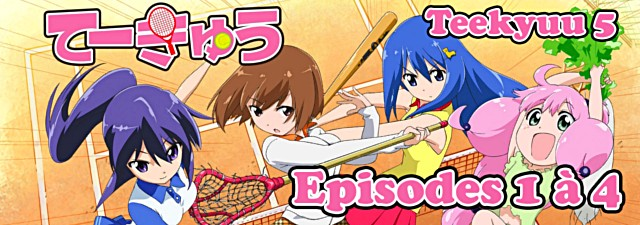
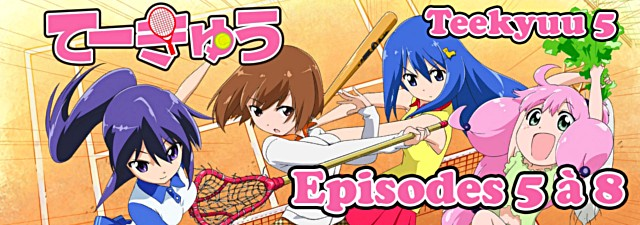
new release

Changed region(s): [[0.5, 0.7156, 1.0, 0.9644], [0.4375, 0.7156, 0.5, 0.9333], [0.5, 0.9333, 0.5312, 0.9644]]

diff --git a/2016-01-14.html b/2016-01-14.html
@@ -1,7 +1,7 @@
-<!DOCTYPE html>
+<!DOCTYPE html>
 <html lang="fr-FR">
 	<head>
-		<title>Teekyuu Saison 5 | Nobluesky Fansub</title>
+		<title>Teekyuu Saison 5 Ep 5 à 8 vostfr | Nobluesky Fansub</title>
 		<meta charset="utf-8" />
 		<link rel="Shortcut Icon" type="image/x-icon" href="favicon.ico" />
 		<link href="fonts/fonts.css" rel="stylesheet" type="text/css" />
@@ -36,35 +36,16 @@
 	<div id="article">
 		<div id="content">
 			<div class="post">
-				<h1 class="title">Teekyuu Saison 5</h1>
-				<div style="clear: both;">&nbsp;</div>
+				<h1 class="title">Teekyuu Saison 5 Ep 5 à 8 vostfr</h1>
+				<p class="meta"><span class="date">14 Janvier 2016</span><span class="posted">Posté par <a href="about.html#nobluesky">Nobluesky</a></span></p>
 				<div style="clear: both;">&nbsp;</div>
 				<div class="entry">
-					<img class="post-images" src="images/2016/teekyuu5.jpg" alt="" />
-					<p>12 épisodes de 2 min, Juillet 2015</p>
-					<p>Nous suivons le quotidien de quatre lycéennes membres du club de tennis. Un quotidien... pour le moins peu ordinaire!</p>
-					<p>Avec cette série humoristique déjantée, mettez votre cerveau au placard! Mais essayez tout de même de trouver les nombreuses références.</p>
+					<img class="post-images" src="images/2016/news4.jpg" alt="" />
+					<p>Bonjour,</p>
+					<p>Voici la suite des aventures de nos lycéennes. Accrochez-vous bien, le délire continue!</p>
+					<p>Je vous préviens aussi de possibles retards car je suis malade, et je risque de faire du travail peu soigné dans mon état, quand bien même j'arriverais à faire plus qu'écrire cette news. Je préfère donc attendre un moment plus favorable. (On nous aurait menti?! Les fansubbeurs ne sont pas des machines? :P )</p>
+					<p>A bientôt, le plus tôt possible.</p>
 					<h3>Téléchargements et streaming</h3>
-					Episode 01 : 
-					<p class="links dl"><a href="http://jheberg.net/captcha/tks5-01/" class="button-dl">Jheberg</a></p>&nbsp; | &nbsp;
-					<p class="links dl"><a href="http://rutube.ru/video/f7bf09f247d97788b146d83596d0bf83/" class="button-dl">Rutube</a></p>&nbsp; | &nbsp;
-					<p class="links dl"><a href="https://mega.nz/#!fdsWESoC!E1UtLP3SReTLyOux8N_xyXnAK_lgvz0WuChBlp407uY" class="button-dl">Mega</a></p>
-					<br>
-					Episode 02 : 
-					<p class="links dl"><a href="http://jheberg.net/captcha/tks5-02/" class="button-dl">Jheberg</a></p>&nbsp; | &nbsp;
-					<p class="links dl"><a href="http://rutube.ru/video/f5cc8517e909f189c865f94f66807e28/" class="button-dl">Rutube</a></p>&nbsp; | &nbsp;
-					<p class="links dl"><a href="https://mega.nz/#!HV9ihLSS!3bqGXHt69ZWqzAtzV1RomT3WOu3Vt4SHvhsRGrI0l24" class="button-dl">Mega</a></p>
-					<br>
-					Episode 03 : 
-					<p class="links dl"><a href="http://jheberg.net/captcha/tks5-03/" class="button-dl">Jheberg</a></p>&nbsp; | &nbsp;
-					<p class="links dl"><a href="http://rutube.ru/video/082c44ac9a0d2a269afc41413f7b7919/" class="button-dl">Rutube</a></p>&nbsp; | &nbsp;
-					<p class="links dl"><a href="https://mega.nz/#!GVswQJ5a!lp3UKnQwGK38Ih75KT5fqkuapxm1qZRPnWOIKkf8Qo4" class="button-dl">Mega</a></p>
-					<br>
-					Episode 04 : 
-					<p class="links dl"><a href="http://jheberg.net/captcha/tks5-04/" class="button-dl">Jheberg</a></p>&nbsp; | &nbsp;
-					<p class="links dl"><a href="http://rutube.ru/video/e3e13406a01508588ca77f4a2370d1d5/" class="button-dl">Rutube</a></p>&nbsp; | &nbsp;
-					<p class="links dl"><a href="https://mega.nz/#!7c0W3B6C!do6UPpkF7E_r9MWWw19NxM3_fHs2IFb8XjBuv5sZEs4" class="button-dl">Mega</a></p>
-					<br>
 					Episode 05 : 
 					<p class="links dl"><a href="http://jheberg.net/captcha/tks5-05" class="button-dl">Jheberg</a></p>&nbsp; | &nbsp;
 					<p class="links dl"><a href="http://rutube.ru/video/8322fdac4357b147de8b137a4fa4f711/" class="button-dl">Rutube</a></p>&nbsp; | &nbsp;
@@ -84,6 +65,21 @@
 					<p class="links dl"><a href="http://jheberg.net/captcha/tks5-08/" class="button-dl">Jheberg</a></p>&nbsp; | &nbsp;
 					<p class="links dl"><a href="http://rutube.ru/video/9d6bf0a8f8dd2b6ca0d4ca3f8b302ade/" class="button-dl">Rutube</a></p>&nbsp; | &nbsp;
 					<p class="links dl"><a href="https://mega.nz/#!2JMyWYqY!16rSuXCJskLVwa-nq2iH1-SoVOWaUD3-My-Y27DpQb4" class="button-dl">Mega</a></p>
+					<h3>Commentaires</h3>
+					<div id="disqus_thread"></div>
+					<script type="text/javascript">
+						/* * * CONFIGURATION VARIABLES: EDIT BEFORE PASTING INTO YOUR WEBPAGE * * */
+						var disqus_shortname = 'noblueskyfansub'; // required: replace example with your forum shortname
+
+						/* * * DON'T EDIT BELOW THIS LINE * * */
+						(function() {
+							var dsq = document.createElement('script'); dsq.type = 'text/javascript'; dsq.async = true;
+							dsq.src = '//' + disqus_shortname + '.disqus.com/embed.js';
+							(document.getElementsByTagName('head')[0] || document.getElementsByTagName('body')[0]).appendChild(dsq);
+						})();
+					</script>
+					<noscript>Activez javascript pour voir les commentaires.</noscript>
+					<a href="http://disqus.com" class="dsq-brlink">commentaires propulsés par <span class="logo-disqus">Disqus</span></a>
 				</div>
 			</div>
 			<div style="clear: both;">&nbsp;</div>

diff --git a/page2.html b/page2.html
@@ -31,7 +31,7 @@
 	<div class="slider-wrapper theme-default">
 		<div class="ribbon"></div>
 		<div id="slider" class="nivoSlider">
-			<a href="2016-01-12.html"><img src="images/img01.jpg" alt="" /></a><a href="2016-01-06.html"><img src="images/img02.jpg" alt="" /></a><img src="images/img03.jpg" alt="" />
+			<a href="2016-01-14.html"><img src="images/img02.jpg" alt="" /></a><a href="2016-01-12.html"><img src="images/img01.jpg" alt="" /></a><img src="images/img03.jpg" alt="" />
 		</div>
 	</div>
 <script type="text/javascript">
@@ -50,6 +50,18 @@
 </div>
 	<div id="feed">
 		<div id="content">
+			<div class="post">
+				<h1 class="title"><a href="2015-12-21.html">Future GPX Cyber Formula BD 21 vostfr</a></h1>
+				<p class="meta"><span class="date">21 Décembre 2015</span><span class="posted">Posté par <a href="about.html#nobluesky">Nobluesky</a></span></p>
+				<p><a href="http://nobluesub.com/2015-12-21.html#disqus_thread">Commentaires</a></p>
+				<div style="clear: both;">&nbsp;</div>
+				<div class="entry">
+					<img class="post-images" src="images/2015/news22.jpg" alt="" />
+					<p>Bonsoir tout le monde!</p>
+					<p>L'esprit a vaincu la matière, c'est pas un PC qui m'empêchera de vous donner votre épisode pour Noël! Désolé pour le retard...</p>
+					<p class="links"><a href="2015-12-21.html" class="button">Lire la suite</a></p>
+				</div>
+			</div>
 			<div class="post">
 				<h1 class="title"><a href="2015-12-13.html">Future GPX Cyber Formula BD 20 vostfr</a></h1>
 				<p class="meta"><span class="date">13 Décembre 2015</span><span class="posted">Posté par <a href="about.html#nobluesky">Nobluesky</a></span></p>
@@ -101,19 +113,6 @@
 					<p>Toute l'équipe se prépare pour la course suivante, mais attention, il faut garder le moral des troupes pour avancer!</p>
 					<p>Quoi de mieux que de la bonne musique pour ce faire? Vous pouvez même retrouver...</p>
 					<p class="links"><a href="2015-11-24.html" class="button">Lire la suite</a></p>
-				</div>
-			</div>
-			<div class="post">
-				<h1 class="title"><a href="2015-11-15.html">Future GPX Cyber Formula BD 16 vostfr</a></h1>
-				<p class="meta"><span class="date">15 Novembre 2015</span><span class="posted">Posté par <a href="about.html#nobluesky">Nobluesky</a></span></p>
-				<p><a href="http://nobluesub.com/2015-11-15.html#disqus_thread">Commentaires</a></p>
-				<div style="clear: both;">&nbsp;</div>
-				<div class="entry">
-					<img class="post-images" src="images/2015/news17.jpg" alt="" />
-					<p>Bonsoir,</p>
-					<p>Pour vous changer les idées, voici la suite tant attendue de la course du Pérou, avec un enjeu potentiellement dramatique si Hayato échoue^^ (ben oui faudrait pas décevoir Rita!)</p>
-					<p>Bon épisode.</p>
-					<p class="links"><a href="2015-11-15.html" class="button">Lire la suite</a></p>
 				</div>
 			</div>
 			<div id="button-page-wrapper">

diff --git a/index.html b/index.html
@@ -35,7 +35,7 @@
 	<div class="slider-wrapper theme-default">
 		<div class="ribbon"></div>
 		<div id="slider" class="nivoSlider">
-			<a href="2016-01-12.html"><img src="images/img01.jpg" alt="" /></a><a href="2016-01-06.html"><img src="images/img02.jpg" alt="" /></a><img src="images/img03.jpg" alt="" />
+			<a href="2016-01-14.html"><img src="images/img02.jpg" alt="" /></a><a href="2016-01-12.html"><img src="images/img01.jpg" alt="" /></a><img src="images/img03.jpg" alt="" />
 		</div>
 	</div>
 <script type="text/javascript">
@@ -60,6 +60,19 @@
 				<div style="clear: both;">&nbsp;</div>
 				<div class="entry">
 					<p>Bienvenue sur le site de la Nobluesky Fansub!</p>
+				</div>
+			</div>
+			<div class="post">
+				<h1 class="title"><a href="2016-01-14.html">Teekyuu Saison 5 Ep 5 à 8 vostfr</a></h1>
+				<p class="meta"><span class="date">14 Janvier 2015</span><span class="posted">Posté par <a href="about.html#nobluesky">Nobluesky</a></span></p>
+				<p><a href="http://nobluesub.com/2016-01-14.html#disqus_thread">Commentaires</a></p>
+				<div style="clear: both;">&nbsp;</div>
+				<div class="entry">
+					<img class="post-images" src="images/2016/news4.jpg" alt="" />
+					<p><p>Bonjour,</p>
+					<p>Voici la suite des aventures de nos lycéennes. Accrochez-vous bien, le délire continue!</p>
+					<p>Je vous préviens aussi de possibles retards car je suis malade, et je risque de faire du travail peu...</p>
+					<p class="links"><a href="2016-01-14.html" class="button">Lire la suite</a></p>
 				</div>
 			</div>
 			<div class="post">
@@ -111,18 +124,6 @@
 					<p>Après ce suspense intenable, voici la suite!</p>
 					<p>J'ai légèrement revu ma façon de synchroniser les sous-titres afin de rendre la lecture plus agréable...</p>
 					<p class="links"><a href="2015-12-30.html" class="button">Lire la suite</a></p>
-				</div>
-			</div>
-			<div class="post">
-				<h1 class="title"><a href="2015-12-21.html">Future GPX Cyber Formula BD 21 vostfr</a></h1>
-				<p class="meta"><span class="date">21 Décembre 2015</span><span class="posted">Posté par <a href="about.html#nobluesky">Nobluesky</a></span></p>
-				<p><a href="http://nobluesub.com/2015-12-21.html#disqus_thread">Commentaires</a></p>
-				<div style="clear: both;">&nbsp;</div>
-				<div class="entry">
-					<img class="post-images" src="images/2015/news22.jpg" alt="" />
-					<p>Bonsoir tout le monde!</p>
-					<p>L'esprit a vaincu la matière, c'est pas un PC qui m'empêchera de vous donner votre épisode pour Noël! Désolé pour le retard...</p>
-					<p class="links"><a href="2015-12-21.html" class="button">Lire la suite</a></p>
 				</div>
 			</div>
 			<div id="button-page-wrapper">

diff --git a/stream/teekyuu5-05.html b/stream/teekyuu5-05.html
@@ -1,27 +1,22 @@
 <!DOCTYPE html>
 <html lang="fr">
 <head>
-	<title>Streaming Nobluesub | Teekyuu Saison 5</title>
+	<title>Streaming Nobluesub | Lecture en cours</title>
 	<link rel="Shortcut Icon" type="image/x-icon" href="favicon.ico" />
 	<meta charset="UTF-8" />
-	<link rel="stylesheet" href="style.css">
+	<link rel="stylesheet" href="style.css"/>
 	<script src="jquery.js" type="text/javascript"></script>
 </head>
 
 <body>
 <div id="feed">
 	<a title="Nobluesky stream" href="index.html"> <img id="banner" alt="Nobluesky Stream" title="Nobluesky Stream | Accueil" src="images/banner.png"/> </a>
-	<h3>Teekyuu Saison 5</h3>
-	<p><a href="teekyuu5-01.html">Episode 1</a></p>
-	<p><a href="teekyuu5-02.html">Episode 2</a></p>
-	<p><a href="teekyuu5-03.html">Episode 3</a></p>
-	<p><a href="teekyuu5-04.html">Episode 4</a></p>
-	<p><a href="teekyuu5-05.html">Episode 5</a></p>
-	<p><a href="teekyuu5-06.html">Episode 6</a></p>
-	<p><a href="teekyuu5-07.html">Episode 7</a></p>
-	<p><a href="teekyuu5-08.html">Episode 8</a></p>
-	<br>
-	<br>
+		<p><a href="teekyuu5.html">Retour à la liste des épisodes</a></p>
+			<video id="player" controls alt="video">
+				<source src="http://stream.nobluesub.com:17970/share/XPTfVSn7DPMSEYqx/05.mp4" type="video/mp4">
+					<p>Désolé, votre navigateur est ancien et/ou ne supporte pas html5.</p>
+				</object>
+			</video>
 <p id="copy">Design par Nobluesky</p>
 </div>
 <!-- end feed -->

diff --git a/stream/teekyuu5-06.html b/stream/teekyuu5-06.html
@@ -1,27 +1,22 @@
 <!DOCTYPE html>
 <html lang="fr">
 <head>
-	<title>Streaming Nobluesub | Teekyuu Saison 5</title>
+	<title>Streaming Nobluesub | Lecture en cours</title>
 	<link rel="Shortcut Icon" type="image/x-icon" href="favicon.ico" />
 	<meta charset="UTF-8" />
-	<link rel="stylesheet" href="style.css">
+	<link rel="stylesheet" href="style.css"/>
 	<script src="jquery.js" type="text/javascript"></script>
 </head>
 
 <body>
 <div id="feed">
 	<a title="Nobluesky stream" href="index.html"> <img id="banner" alt="Nobluesky Stream" title="Nobluesky Stream | Accueil" src="images/banner.png"/> </a>
-	<h3>Teekyuu Saison 5</h3>
-	<p><a href="teekyuu5-01.html">Episode 1</a></p>
-	<p><a href="teekyuu5-02.html">Episode 2</a></p>
-	<p><a href="teekyuu5-03.html">Episode 3</a></p>
-	<p><a href="teekyuu5-04.html">Episode 4</a></p>
-	<p><a href="teekyuu5-05.html">Episode 5</a></p>
-	<p><a href="teekyuu5-06.html">Episode 6</a></p>
-	<p><a href="teekyuu5-07.html">Episode 7</a></p>
-	<p><a href="teekyuu5-08.html">Episode 8</a></p>
-	<br>
-	<br>
+		<p><a href="teekyuu5.html">Retour à la liste des épisodes</a></p>
+			<video id="player" controls alt="video">
+				<source src="http://stream.nobluesub.com:17970/share/5RLMhbYHRq2uMrUv/06.mp4" type="video/mp4">
+					<p>Désolé, votre navigateur est ancien et/ou ne supporte pas html5.</p>
+				</object>
+			</video>
 <p id="copy">Design par Nobluesky</p>
 </div>
 <!-- end feed -->

diff --git a/stream/teekyuu5-07.html b/stream/teekyuu5-07.html
@@ -1,27 +1,22 @@
 <!DOCTYPE html>
 <html lang="fr">
 <head>
-	<title>Streaming Nobluesub | Teekyuu Saison 5</title>
+	<title>Streaming Nobluesub | Lecture en cours</title>
 	<link rel="Shortcut Icon" type="image/x-icon" href="favicon.ico" />
 	<meta charset="UTF-8" />
-	<link rel="stylesheet" href="style.css">
+	<link rel="stylesheet" href="style.css"/>
 	<script src="jquery.js" type="text/javascript"></script>
 </head>
 
 <body>
 <div id="feed">
 	<a title="Nobluesky stream" href="index.html"> <img id="banner" alt="Nobluesky Stream" title="Nobluesky Stream | Accueil" src="images/banner.png"/> </a>
-	<h3>Teekyuu Saison 5</h3>
-	<p><a href="teekyuu5-01.html">Episode 1</a></p>
-	<p><a href="teekyuu5-02.html">Episode 2</a></p>
-	<p><a href="teekyuu5-03.html">Episode 3</a></p>
-	<p><a href="teekyuu5-04.html">Episode 4</a></p>
-	<p><a href="teekyuu5-05.html">Episode 5</a></p>
-	<p><a href="teekyuu5-06.html">Episode 6</a></p>
-	<p><a href="teekyuu5-07.html">Episode 7</a></p>
-	<p><a href="teekyuu5-08.html">Episode 8</a></p>
-	<br>
-	<br>
+		<p><a href="teekyuu5.html">Retour à la liste des épisodes</a></p>
+			<video id="player" controls alt="video">
+				<source src="http://stream.nobluesub.com:17970/share/Iq2DDYeKZwM5Auxg/07.mp4" type="video/mp4">
+					<p>Désolé, votre navigateur est ancien et/ou ne supporte pas html5.</p>
+				</object>
+			</video>
 <p id="copy">Design par Nobluesky</p>
 </div>
 <!-- end feed -->

diff --git a/stream/teekyuu5-08.html b/stream/teekyuu5-08.html
@@ -1,27 +1,22 @@
 <!DOCTYPE html>
 <html lang="fr">
 <head>
-	<title>Streaming Nobluesub | Teekyuu Saison 5</title>
+	<title>Streaming Nobluesub | Lecture en cours</title>
 	<link rel="Shortcut Icon" type="image/x-icon" href="favicon.ico" />
 	<meta charset="UTF-8" />
-	<link rel="stylesheet" href="style.css">
+	<link rel="stylesheet" href="style.css"/>
 	<script src="jquery.js" type="text/javascript"></script>
 </head>
 
 <body>
 <div id="feed">
 	<a title="Nobluesky stream" href="index.html"> <img id="banner" alt="Nobluesky Stream" title="Nobluesky Stream | Accueil" src="images/banner.png"/> </a>
-	<h3>Teekyuu Saison 5</h3>
-	<p><a href="teekyuu5-01.html">Episode 1</a></p>
-	<p><a href="teekyuu5-02.html">Episode 2</a></p>
-	<p><a href="teekyuu5-03.html">Episode 3</a></p>
-	<p><a href="teekyuu5-04.html">Episode 4</a></p>
-	<p><a href="teekyuu5-05.html">Episode 5</a></p>
-	<p><a href="teekyuu5-06.html">Episode 6</a></p>
-	<p><a href="teekyuu5-07.html">Episode 7</a></p>
-	<p><a href="teekyuu5-08.html">Episode 8</a></p>
-	<br>
-	<br>
+		<p><a href="teekyuu5.html">Retour à la liste des épisodes</a></p>
+			<video id="player" controls alt="video">
+				<source src="http://stream.nobluesub.com:17970/share/3qvn6rRJedVk-laE/08.mp4" type="video/mp4">
+					<p>Désolé, votre navigateur est ancien et/ou ne supporte pas html5.</p>
+				</object>
+			</video>
 <p id="copy">Design par Nobluesky</p>
 </div>
 <!-- end feed -->

diff --git a/archives.html b/archives.html
@@ -45,6 +45,7 @@
 					<div>
 					 <!-- here comes spoiler content --> 
 					<div style="clear: both;">&nbsp;</div>
+					<p><a href="2015-11-15.html" target="_blank" >Future GPX Cyber Formula BD 16 vostfr</a></p>
 					<p><a href="2015-11-08.html" target="_blank" >Future GPX Cyber Formula BD 15 vostfr</a></p>
 					<p><a href="2015-11-01.html" target="_blank" >Future GPX Cyber Formula BD 14 vostfr</a></p>
 					<p><a href="2015-10-18.html" target="_blank" >Future GPX Cyber Formula BD 13 vostfr</a></p>

diff --git a/sidebar.html b/sidebar.html
@@ -34,9 +34,9 @@
 					<span style="width: 100%"></span>
 					</div>
 				</li>
-				<li>Teekyuu 5 Ep 5 à 8 : 75%
+				<li>Teekyuu 5 Ep 5 à 8 : 100%
 					<div class="progress-bar blue stripes" title="Progression" >
-					<span style="width: 75%"></span>
+					<span style="width: 100%"></span>
 					</div>
 				</li>
 			</ul>
